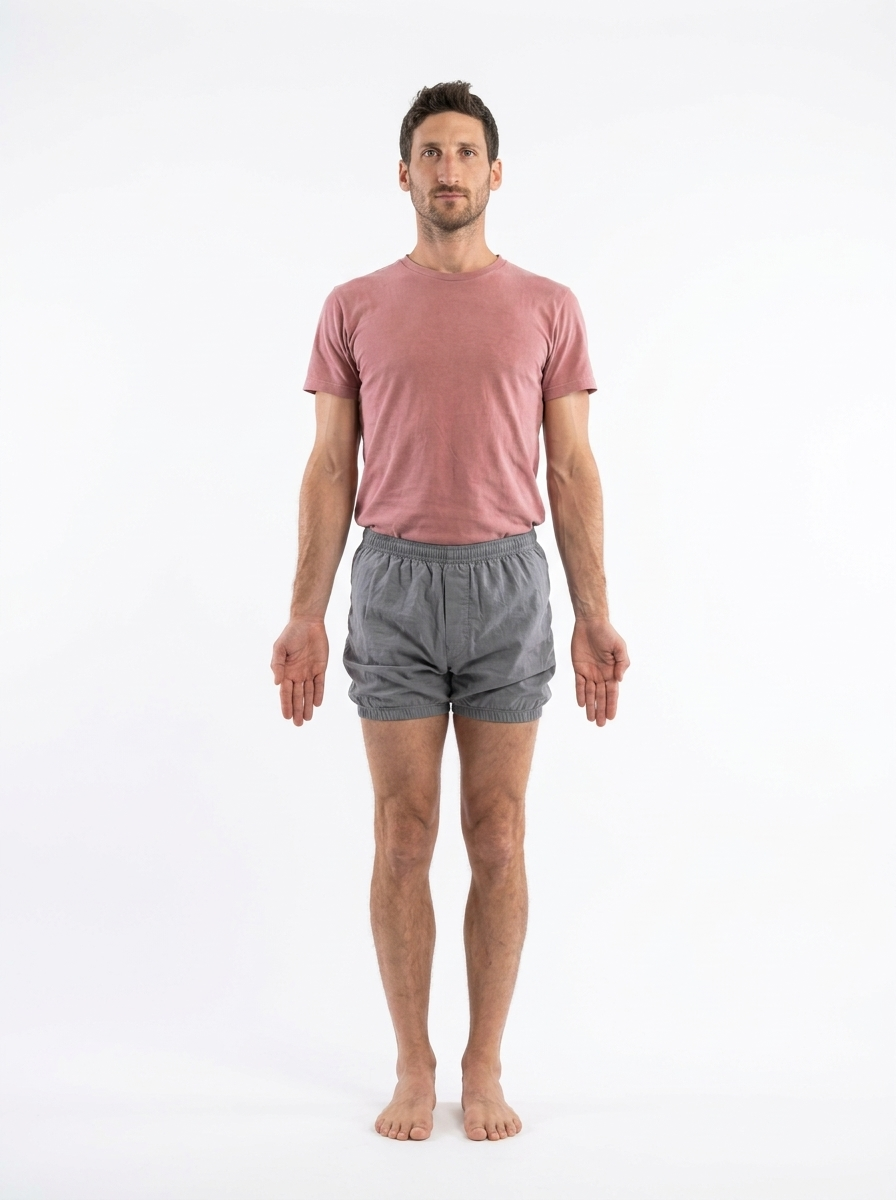
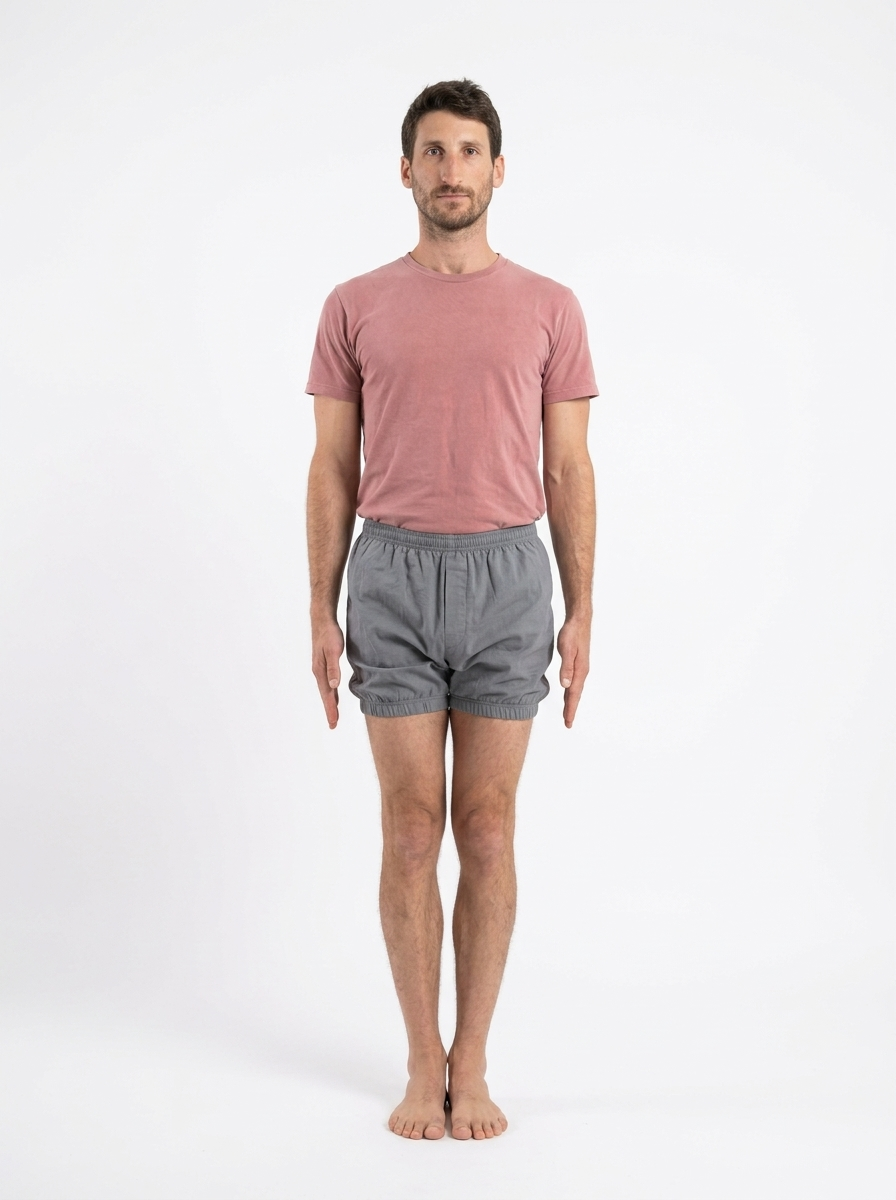
feat: add click to zoom in catalog and update tadasana with strict iyengar alignment

Changed region(s): [[0.2812, 0.2467, 0.7188, 0.9558], [0.4375, 0.0617, 0.5625, 0.2158], [0.5, 0.2158, 0.5312, 0.2467]]

diff --git a/src/components/PoseCatalog.jsx b/src/components/PoseCatalog.jsx
@@ -85,9 +85,16 @@ export const PoseCatalog = ({ onBackToHome, onOpenZoomModal }) => {
             key={pose.id}
             className="bg-white border border-cream-300 rounded-3xl p-4 shadow-sm hover:shadow-card transition-shadow flex flex-col sm:flex-row gap-4"
           >
-            {/* SVG Illustration Thumbnail */}
-            <div className="w-full sm:w-36 h-36 rounded-2xl bg-cream-50 border border-cream-200 p-2 shrink-0 flex items-center justify-center">
+            {/* Image Thumbnail with Click-to-Zoom */}
+            <div 
+              onClick={() => onOpenZoomModal(pose)}
+              className="w-full sm:w-36 h-36 rounded-2xl bg-cream-50 border border-cream-200 p-2 shrink-0 flex items-center justify-center relative group cursor-pointer overflow-hidden hover:border-terracotta transition-all"
+            >
               <PoseSvgIllustration poseId={pose.id} className="w-full h-full" />
+              
+              <div className="absolute inset-0 bg-charcoal/30 backdrop-blur-[1px] opacity-0 group-hover:opacity-100 transition-opacity flex items-center justify-center text-white text-xs font-bold gap-1 rounded-2xl">
+                <span>🔍 לחץ להגדלה</span>
+              </div>
             </div>
 
             {/* Info */}
